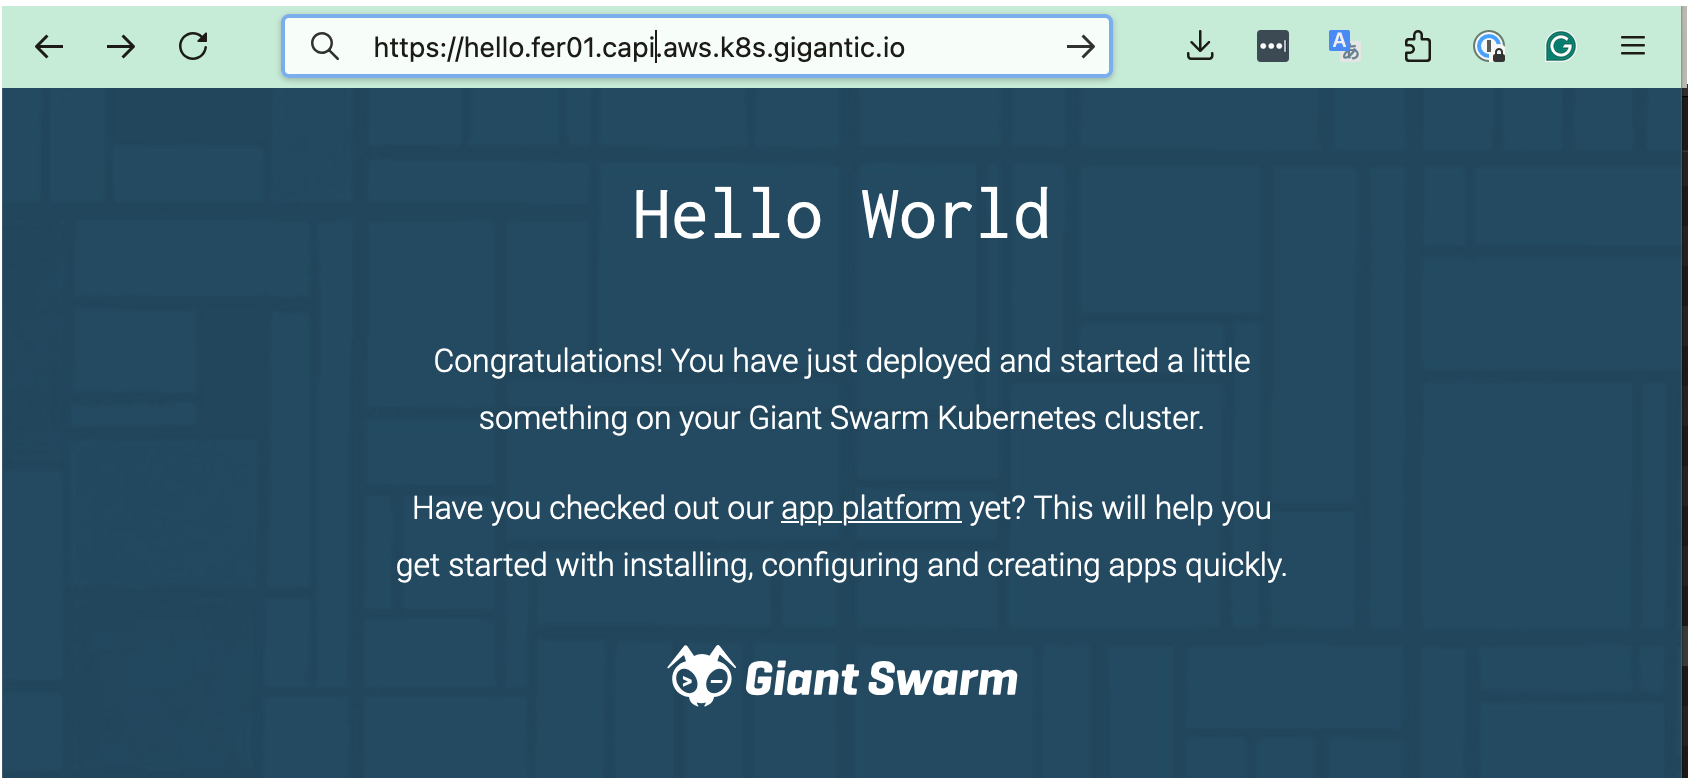
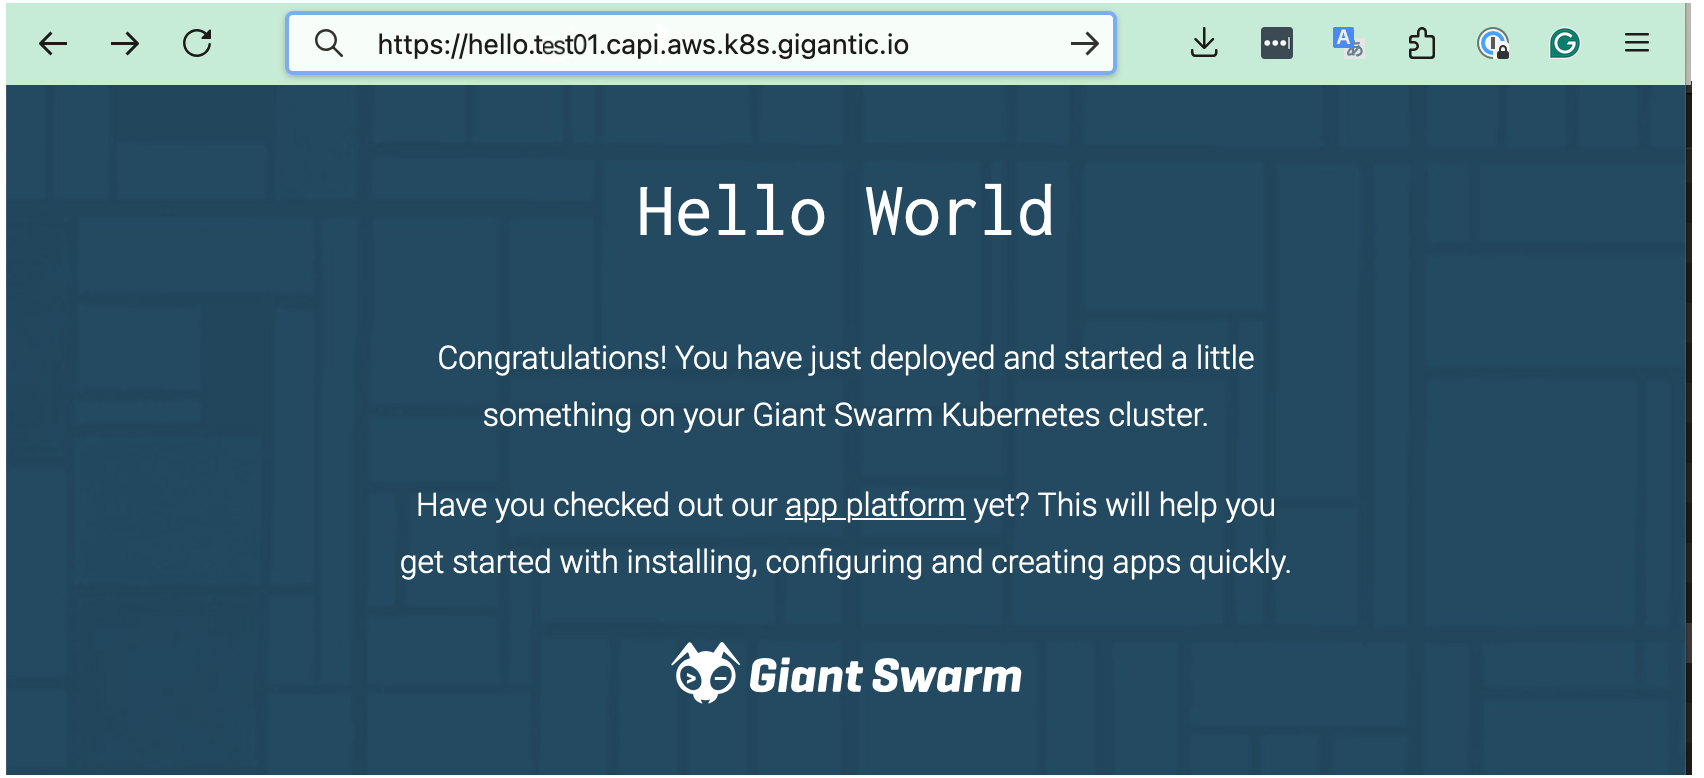
Apply changes requested

diff --git a/src/content/getting-started/install-an-application/_index.md b/src/content/getting-started/install-an-application/_index.md
@@ -3,7 +3,7 @@ title: Install an application using the app platform
 linkTitle: Install an application
 description: Add capabilities to your platform by deploying applications from our catalog.
 weight: 50
-last_review_date: 2024-08-23
+last_review_date: 2024-09-06
 menu:
   principal:
     parent: getting-started
@@ -134,65 +134,14 @@ NAME                           CATALOG      APP NAME      VERSION   UPSTREAM VER
 giantswarm-hello-world-2.3.2   giantswarm   hello-world   2.3.2     0.2.1              72d
 ```
 
-Then, template the application to target the right organization and workload cluster:
-
-```sh
-kubectl gs template app \
-  --catalog=giantswarm \
-  --cluster-name=test01 \
-  --organization=testing \
-  --name=test01-hello-world \
-  --target-namespace=default \
-  --version=2.3.2 > hello-world.yaml
-```
-
-Lets take a look at the `App CR` to learn main fields available:
-
-```yaml
-apiVersion: application.giantswarm.io/v1alpha1
-kind: App
-metadata:
-  name: test01-hello-world
-  namespace: org-giantswarm
-spec:
-  catalog: giantswarm
-  kubeConfig:
-    inCluster: false
-  name: hello-world
-  namespace: kube-system
-  version: 2.3.2
-```
-
-The `spec.name` field is the application's name in the catalog; meanwhile, 'metadata.name` designates the name of the instance installed in the cluster. [Read more information about the properties here]({{ relfer "/vintage/use-the-api/management-api/crd/apps.application.giantswarm.io/" }}).
-
-After a few seconds, you should see the deployed status:
-
-```nohighlight
-$ kubectl get app -n org-testing test01-hello-world
-NAME                INSTALLED VERSION   CREATED AT   LAST DEPLOYED   STATUS
-test01-hello-world   2.3.2               11s          8s              deployed
-```
-
-Now you can access your workload cluster, check the app running, and see which ingress address has been generated:
-
-```nohighlight
-kubectl get ingress -n default
-NAME          CLASS   HOSTS                                        ADDRESS                                                                       PORTS     AGE
-hello-world   nginx   cluster.provider.k8s.giantswam.io   ab49484.cn-north-1.elb.amazonaws.com.cn   80, 443   2m29s
-```
-
-Sadly, the address isn't accessible because we've not passed the right domain on to the ingress controller.
-
-## Step 4: Configuring the right domain
-
-For every workload cluster there is a default wildcard record created automatically by our controllers. The domain is composed by the cluster name and the provider, the region and the base domain.
+To make our app accessible from Internet an [ingress]() should be defined with the right domain. By default every workload cluster comes with a default wildcard record created automatically by our controllers. The domain is composed by the cluster name and the provider, the region and the base domain.
 
 ```sh
 $ kubectl get cm -n org-testing test01-cluster-values -ojsonpath="{.data.values}" | grep baseDomain
 baseDomain: test01.capi.aws.k8s.gigantic.io
 ```
 
-With that information, you can customize the `hello-world` app to use the right domain. The [app values schema](https://github.com/giantswarm/hello-world-app/blob/main/helm/hello-world/README.md) documents which values can be changed. Here, the `hosts` and `tls` sections are relevant.
+With that information, you can extend the `hello-world` application manifest to use the right domain. Check the [application values schema](https://github.com/giantswarm/hello-world-app/blob/main/helm/hello-world/README.md) to see what values can be customized. Here, the `hosts` and `tls` sections are relevant.
 
 Create a file containing the Helm chart values:
 
@@ -211,7 +160,7 @@ tls:
 EOF
 ```
 
-Now we can template the app again passing the file reference:
+Then, template the application to target the right organization and workload cluster. Also the extra configuration is passed as argument.
 
 ```sh
 kubectl gs template app \
@@ -224,7 +173,39 @@ kubectl gs template app \
   --version=2.3.2 > hello-world.yaml
 ```
 
-Again, push the generated `App` CR file to your GitOps repository, or apply it directly to the management cluster with the following command:
+Lets take a look at the manifests generated to learn how they look like:
+
+```yaml
+apiVersion: v1
+data:
+  values: |
+    ingress:
+      ...
+kind: ConfigMap
+metadata:
+  creationTimestamp: null
+  name: test01-hello-world-userconfig
+  namespace: org-testing
+---
+apiVersion: application.giantswarm.io/v1alpha1
+kind: App
+metadata:
+  name: test01-hello-world
+  namespace: org-testing
+spec:
+  catalog: giantswarm
+  name: hello-world
+  namespace: kube-system
+  userConfig:
+    configMap:
+      name: test01-hello-world-userconfig
+      namespace: org-testing
+  version: 2.3.2
+```
+
+The `spec.name` field is the application's name in the catalog; meanwhile, 'metadata.name` designates the name of the instance installed in the cluster. [Read more information about the properties here]({{ relref "/vintage/use-the-api/management-api/crd/apps.application.giantswarm.io/" }}).
+
+Now let's push the file to your GitOps repository, or apply it directly to the platform API with the following command:
 
 ```sh
 kubectl apply -f hello-world.yaml
@@ -244,7 +225,33 @@ Based on the above `Ingress` definition in the Helm values, a TLS certificate sh
 
 __Note__:You can read more about app platform configuration [here]({{< relref "/vintage/getting-started/app-platform/app-configuration" >}}).
 
-## Step 5: Deleting the hello-world app and ingress-nginx controller
+After a few seconds, you should see the deployed status:
+
+```nohighlight
+$ kubectl get app -n org-testing test01-hello-world
+NAME                INSTALLED VERSION   CREATED AT   LAST DEPLOYED   STATUS
+test01-hello-world   2.3.2               11s          8s              deployed
+```
+
+Now you can access your workload cluster, check the app running, and see which ingress address has been generated:
+
+```nohighlight
+kubectl get ingress -n default
+NAME          CLASS   HOSTS      ADDRESS      PORTS     AGE
+hello-world   nginx   hello.test01.capi.aws.k8s.gigantic.io   ab49484...   80, 443   2m29s
+```
+
+It's time to try to reach the application using the ingress:
+
+```sh
+$ curl -Is https://hello.test01.capi.aws.k8s.gigantic.io
+/ HTTP/1.1 200 OK
+/ Accept-Ranges: bytes ...
+```
+
+The `curl` request it's routed through the AWS load balancer to the ingress controller, which then forwards the request to the `hello-world` service.
+
+## Step 4: Deleting the hello-world app and ingress-nginx controller
 
 The deletion of an app is as simple as creating it:
 
